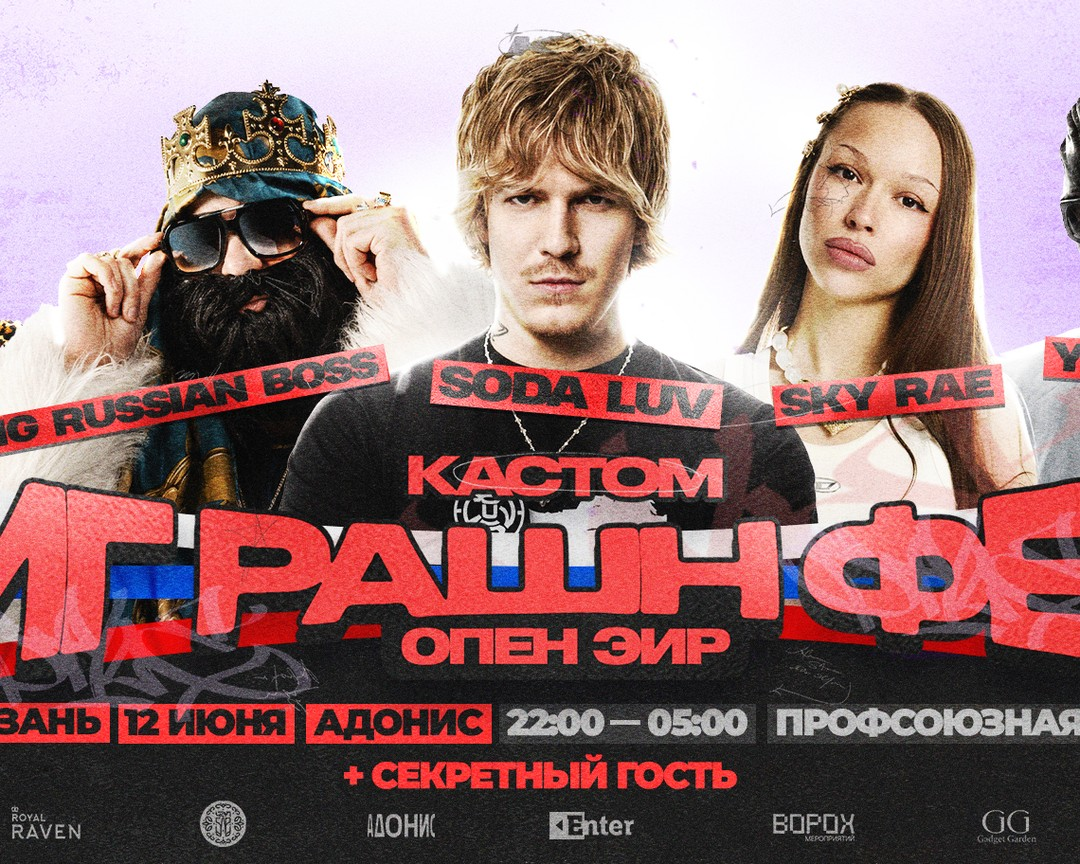
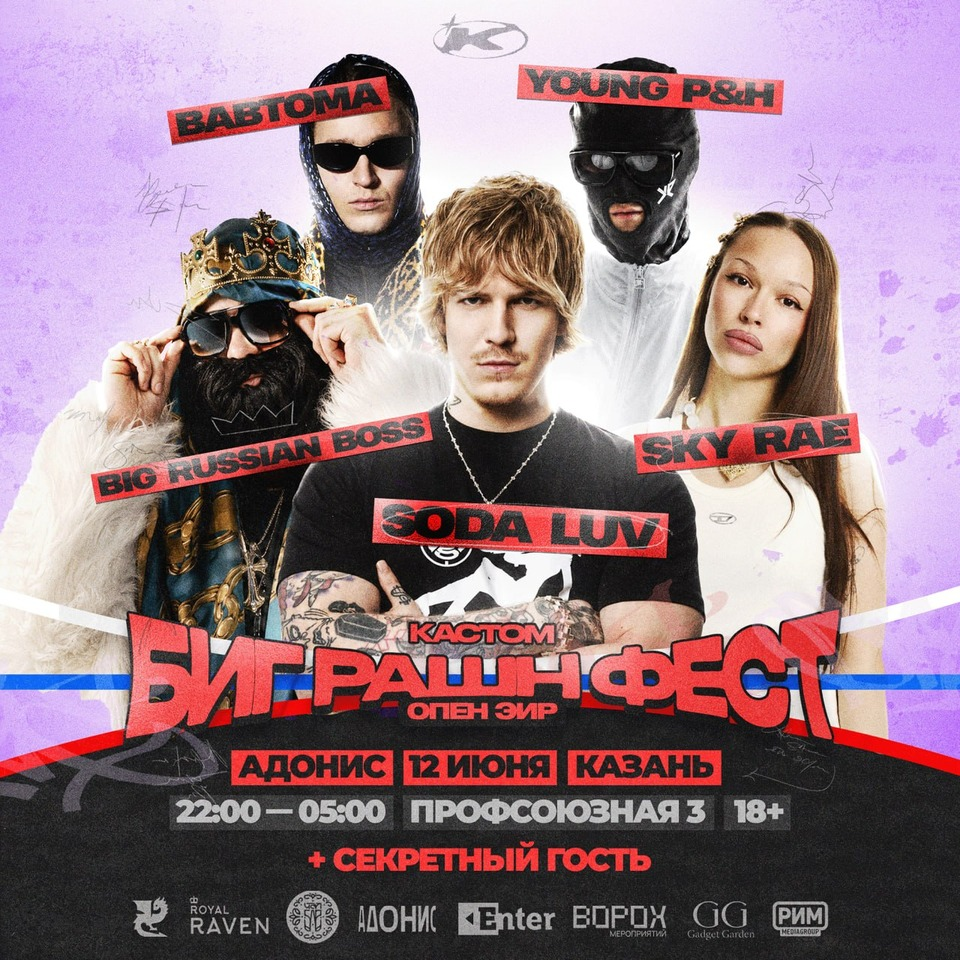
Adjust hero poster sizing

diff --git a/index.html b/index.html
@@ -169,7 +169,7 @@
   /* ─── HERO ───────────────────────────────────────────── */
   #hero {
     position: relative;
-    min-height: 100vh;
+    min-height: 92vh;
     display: flex;
     flex-direction: column;
     align-items: center;
@@ -295,7 +295,9 @@
   .hero-img-wrap img {
     width: 100vw;
     max-width: 100vw;
-    height: auto;
+    height: clamp(340px, 34vw, 490px);
+    object-fit: cover;
+    object-position: center top;
     display: block;
     border-radius: 0;
     box-shadow: 0 8px 80px rgba(0,0,0,0.6), 0 0 60px rgba(123, 42, 255, 0.4);
@@ -1313,7 +1315,7 @@
     .hero-img-wrap {
       width: 100vw;
       margin: 14px calc(50% - 50vw) 0;
-      aspect-ratio: 5 / 4;
+      aspect-ratio: 1 / 1;
       height: auto;
       max-height: none;
       overflow: hidden;
